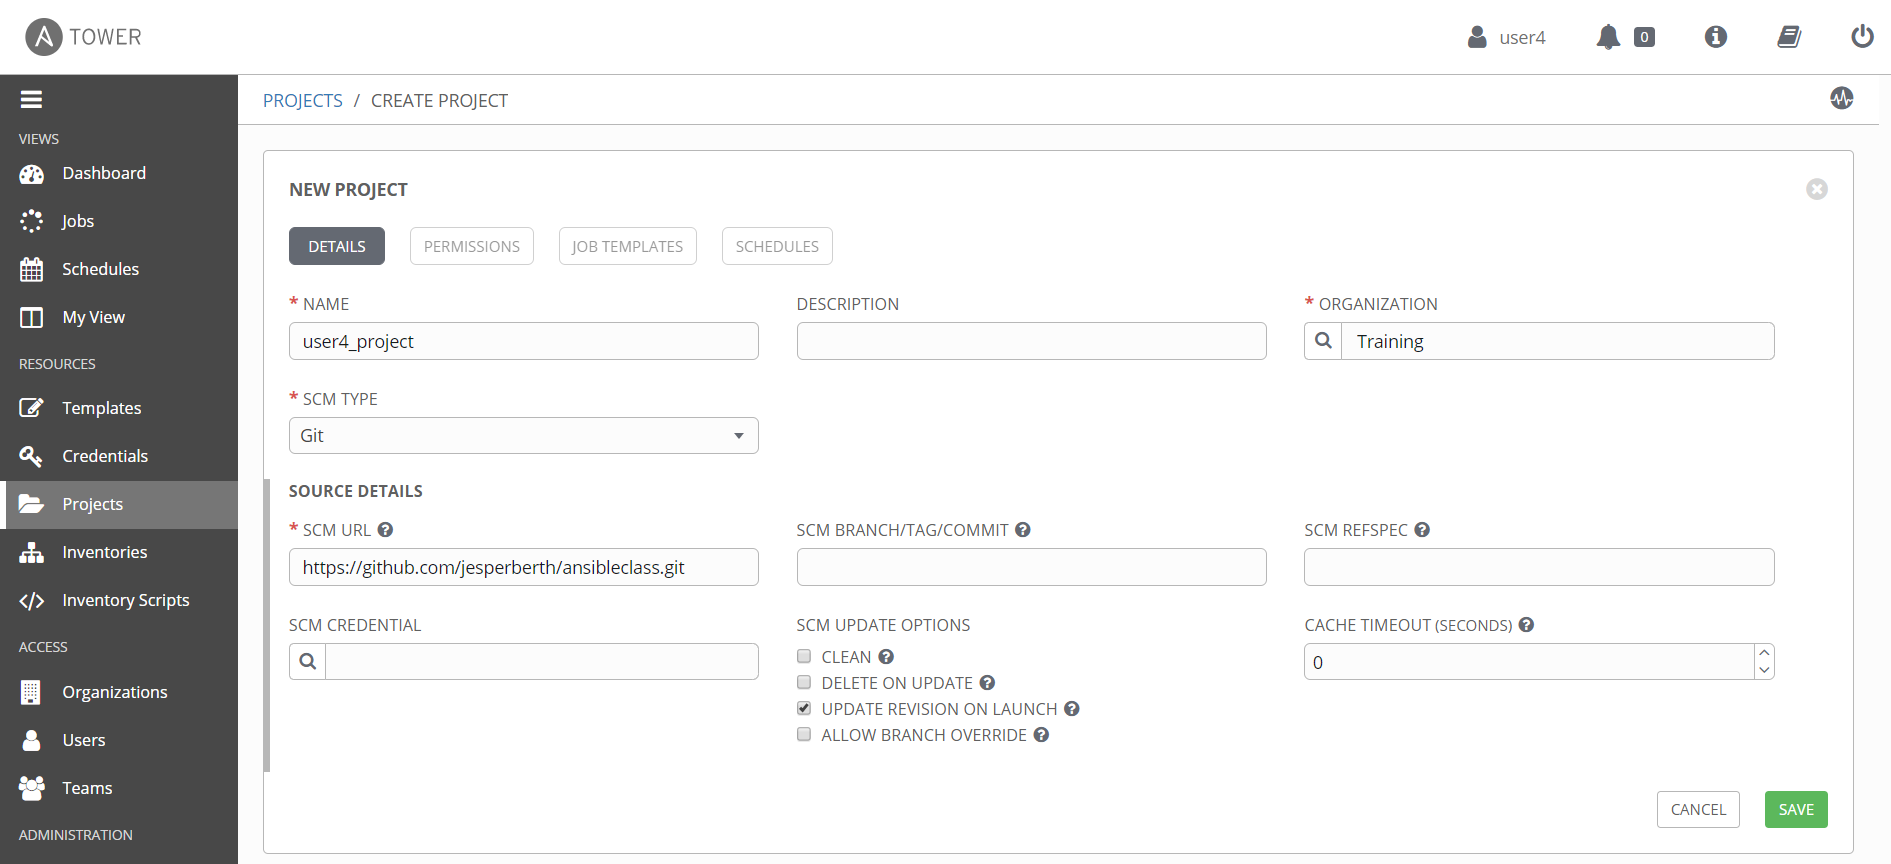
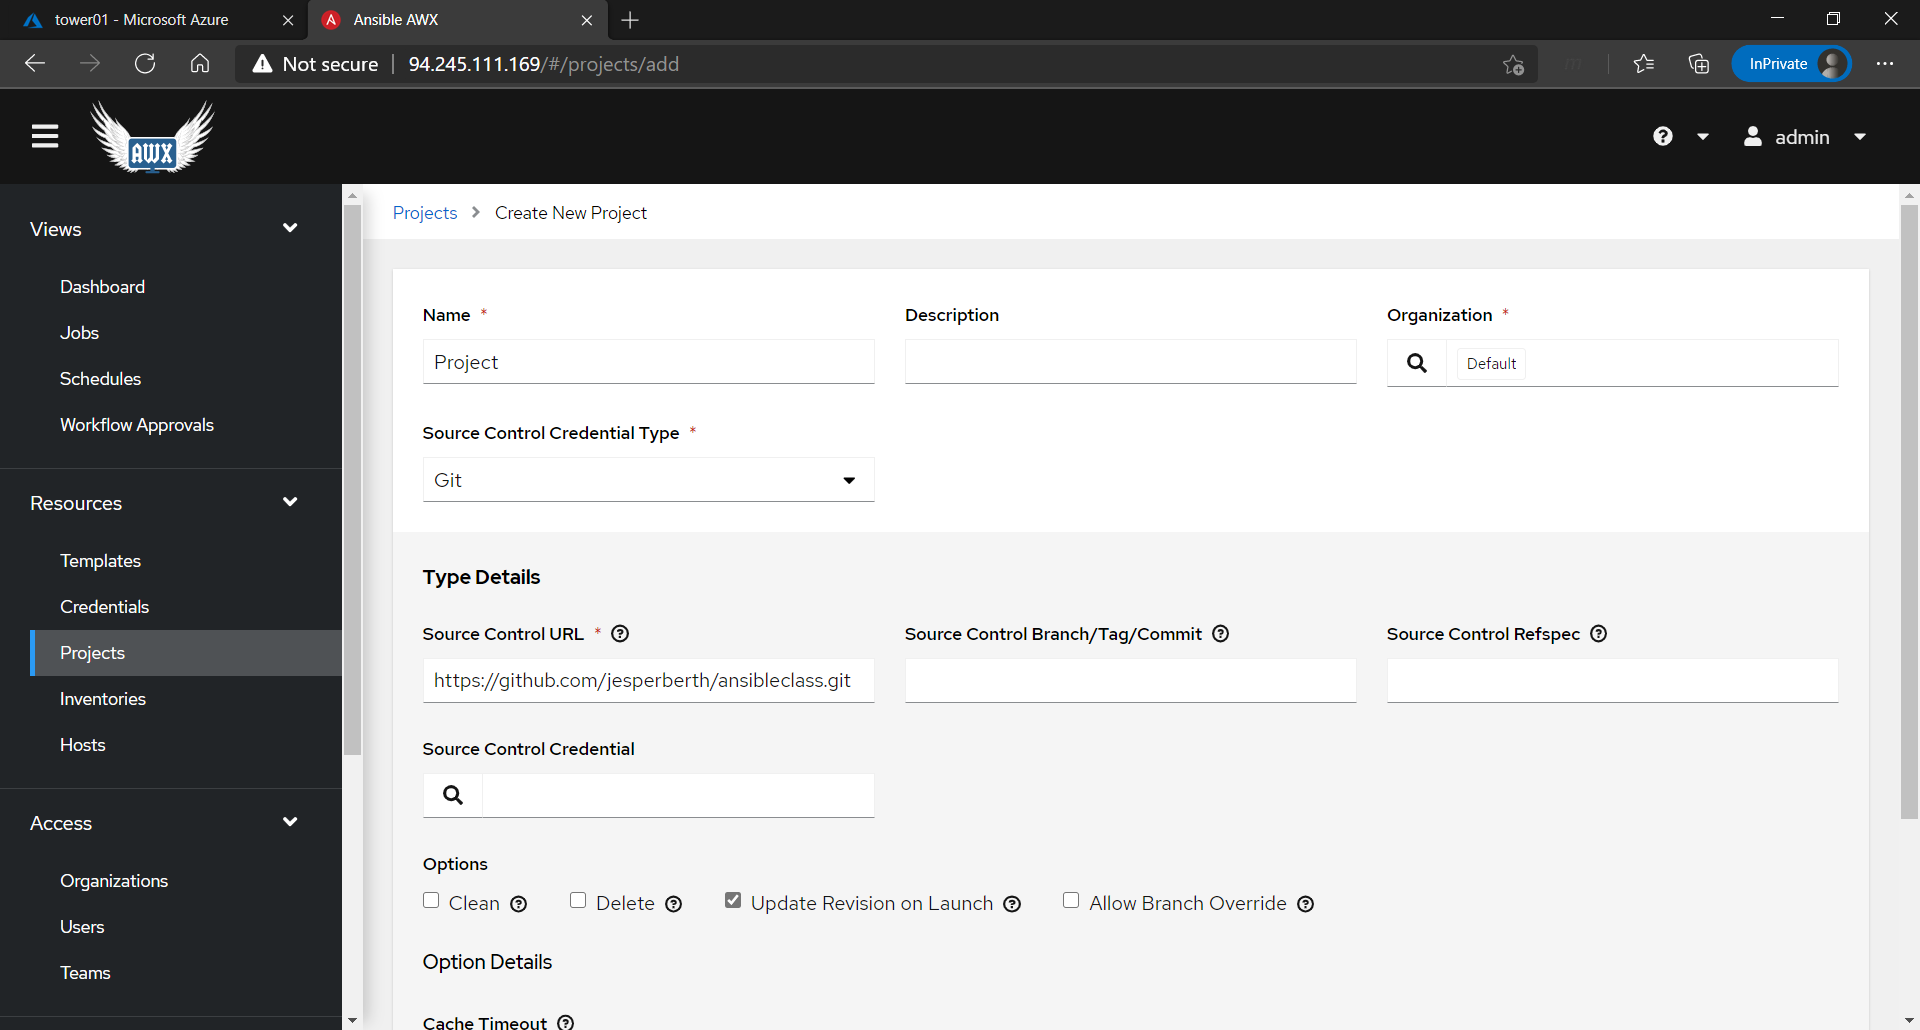
Change to awx task 1 and 2

diff --git a/lab08/lab8.md b/lab08/lab8.md
@@ -32,11 +32,11 @@ Leave the rest, click __Save__
 
 In the left pane, click Projects
 
-Click on the Green Plus sign to create a new project
+Click Add to create a new project
 
 Type
 
-__Name:__ project
+__Name:__ Project
 
 __Organization:__ Default
 
@@ -52,11 +52,11 @@ Leave the rest, click __Save__
 
 In the left pane, click Inventory
 
-Click on the Green Plus sign to create a new inventory
+Click Add to create a new inventory, select Add Inventory
 
 Type
 
-__Name:__ inventory
+__Name:__ Inventory
 
 __Organization:__ Default
 
@@ -66,19 +66,15 @@ Leave the rest, click __Save__
 
 In the left pane, click credentials
 
-Click on the Green Plus sign to create a new Credential
+Click on Add to create a new Credential
 
 Type
 
-__Name:__ credential
+__Name:__ Azure Credential
 
 __Organization:__ Default
 
-Click on the "Credential Type
-
-![Alt text](pics/04_ansible_tower_create_credential.png?raw=true "select credential type")
-
-And select
+Click on the "Credential Type and select
 
 Microsoft Azure Resource Manager
 
